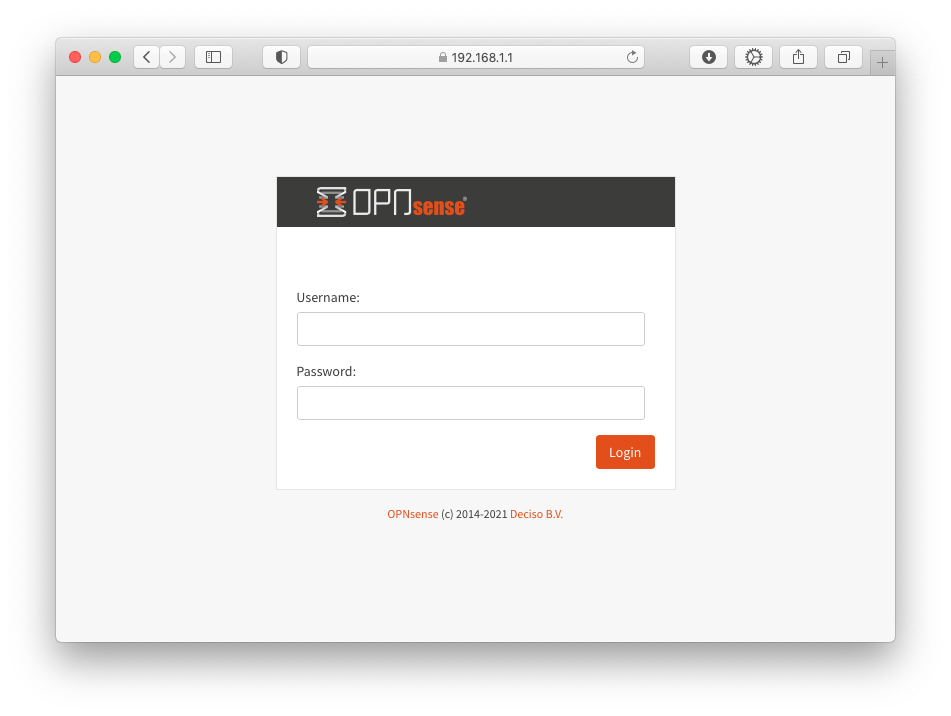
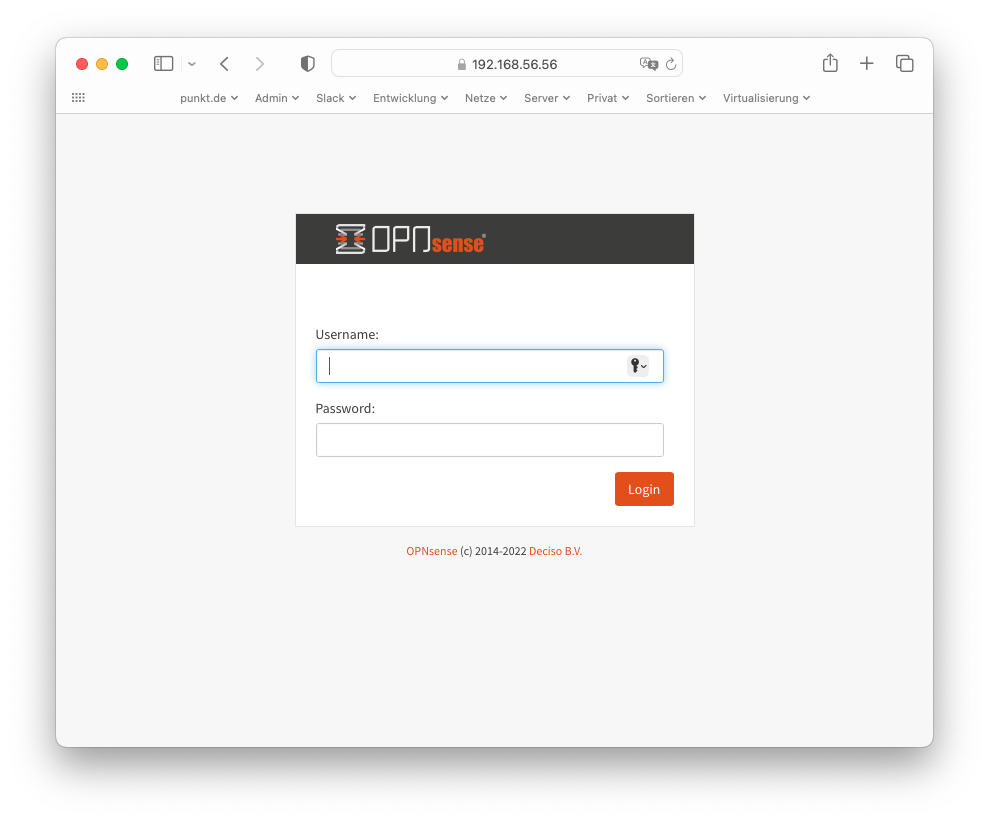
Update for VirtualBox 7.x and more restrictive host-only networking

diff --git a/README.md b/README.md
@@ -5,16 +5,18 @@ Requirements
 ------------
 
 * A system capable of running VirtualBox
-* [Vagrant](https://www.vagrantup.com) >= 2.3.0
-* [VirtualBox](https://www.virtualbox.org) >= 6.1
+* [Vagrant](https://www.vagrantup.com) >= 2.3.4
+* [VirtualBox](https://www.virtualbox.org) >= 7.0.4
 
-Preparation
------------
+Networking considerations
+-------------------------
 
-Create a host-only network in VirtualBox with an IP address in `192.168.1.0/24`
-but **not** `192.168.1.1`. This is the address your OPNsense will use for the LAN
-interface by default. Make sure DHCP is disabled on that interface.
-![Host Network Manager](img/vboxnet-settings.png)
+VirtualBox reserves the `192.168.56.0/21` range of IPv4 addresses for host-only networking.
+The default address of your OPNsense firewall in this project is `192.168.56.56`. If that collides
+with your local infrastructure set a different one in the [Vagrantfile](Vagrantfile). Make sure
+not to pick the lowest one in the respective network, which is reserved for the host by VirtualBox.
+
+For more details see the relevant [VirtualBox documentation](https://www.virtualbox.org/manual/ch06.html#network_hostonly).
 
 Selecting the OPNsense version
 ------------------------------
@@ -79,13 +81,13 @@ you can route our entire address range appropriately.
 On a Mac:
 
 ```sh
-sudo route add -net 217.29.32.0/20 192.168.1.1
+sudo route add -net 217.29.32.0/20 192.168.56.56
 ```
 
 On Windows:
 
 ```cmd
-route ADD 217.29.32.0 MASK 255.240.0.0 192.168.1.1
+route ADD 217.29.32.0 MASK 255.240.0.0 192.168.56.56
 ```
 
 Now when you lookup [our website](https://infrastructure.punkt.de/) in your browser the traffic
@@ -95,10 +97,9 @@ for these experiments if you have a native IPv6 connection. If you don't the bro
 Changing the LAN IP address
 ---------------------------
 
-If you want to change the LAN network after initial deployment, e.g. because you use
-`192.168.1.0/24` already, use these steps:
+If you want to change the LAN network after initial deployment use these steps:
 
-1. Change the IP address in the UI, save and apply. Use anything **but** the lowest address (.1)
+1. Change the IP address in the UI, save and apply. Use anything **but** the lowest address (.1).
    Keep a `/24` netmask. You will lose connectivity, of course.
 2. Use `vagrant halt` to shutdown the VM. Vagrant connects via WAN, so this still works.
 3. Edit `Vagrantfile` and change `$virtual_machine_ip` to your new value.
@@ -113,7 +114,7 @@ Starting development
 vagrant ssh
 sudo su -
 opnsense-code -d /var/vagrant core    # clone the OPNsense core repo
-opnsense-code -d /var/vagrant plugins # clone plugins repo for good measure
+opnsense-code -d /var/vagrant plugins # clone plugins repo if desired
 ```
 
 ---
